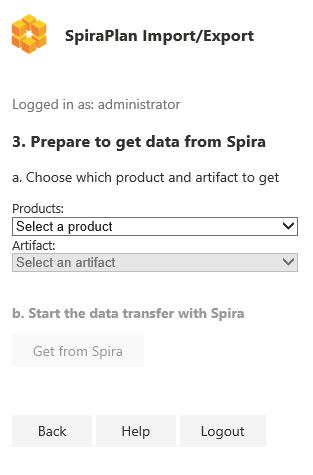
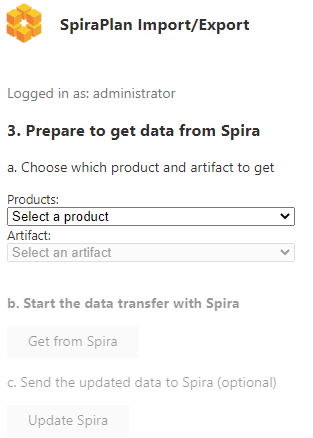
excel 365 doc updates

diff --git a/docs/Migration-and-Integration/Importing-from-Microsoft-Excel-(Office365).md b/docs/Migration-and-Integration/Importing-from-Microsoft-Excel-(Office365).md
@@ -1,6 +1,6 @@
 #  Importing from Microsoft Excel (Office 2016+, iOS, web)
 
-If you are using Microsoft Excel 2016+, or in the cloud (via a web browser) or on iPad OS, you can use the dedicated Microsoft Excel 2016+ add-in. With this add-in you can import or export data to and from any product in your SpiraTest, SpiraTeam, or SpiraPlan application. The add-in works for requirements, releases, incidents, tasks, and test cases with their test steps.
+If you are using Microsoft Excel 2016+, or in the cloud (via a web browser) or on iPad OS, you can use the dedicated Microsoft Excel 2016+ add-in. With this add-in you can import or export data to and from any product in your SpiraTest, SpiraTeam, or SpiraPlan application. The add-in works for requirements, releases, incidents, tasks, test cases with their test steps, risks and test sets.
 
 In legacy versions of this add-in you need to download a static excel template to help make sure you enter data into it in the correct way. This add-in dynamically creates the sheet headers and cell validation based off of the specific selections you make. 
 
@@ -35,9 +35,25 @@ This add-in has two separate modes: exporting; and importing.
 
 Once you have successfully logged in to your Spira application, you need to decide what you want to use this add-in for. You can go back and change your mind at any time.
 
-* **Get data from Spira (exporting)**: This button will prompt you to pick a product and artifact to LOAD FROM Spira loaded into the spreadsheet (on the current active sheet). Exporting data in this way can be helpful to share with colleagues who are not using Spira. Please note that this will bring over 100% of the artifacts in that product so it may take some time.
+* **Get data from Spira (exporting)**: This button will prompt you to pick a product and artifact to LOAD FROM Spira loaded into the spreadsheet (on the current active sheet). Exporting data in this way can be helpful to share with colleagues who are not using Spira. Please note that this will bring over 100% of the artifacts in that product so it may take some time. 
+  * Optionally, after getting data, you can make changes, then update the data back in Spira, hitting the button 'Update Spira'. Please note that this option only allows you to update the received data, not create new artifacts.
+  
 * **Send data to Spira (importing)**: This will button will prompt you to pick a product and artifact to SEND TO Spira from the current active sheet. Before you can enter data to send, the add-in creates a dynamic template for that specific product and artifact to make it easier to enter data correctly.
-* **Logout**: Close your connection with Spira and take you back to the add-in's login page
+
+
+* **Logout**: Close your connection with Spira and take you back to the add-in's login page.
+* **Advanced Mode (optional)** This mode allows you to create new comments and associate artifacts. Check the box 'Advanced Mode' to activate it.
+   * To associate artifacts, find the column of the artifact type you want to associate to (e.g.: "Linked Requirement") and enter the ID(s) of the artifact(s) to associate to. You can associate multiple artifacts at a time using a comma-separated list of IDs, e.g.: 335,336,337. It's possible to associate:
+
+    * Requirements to Requirements
+    * TestCases to Requirements
+    * TestCases to Releases
+    * TestCases to TestSets
+    
+    Please note that you can only use this option to create associations, not to retrieve the existent ones from Spira.
+    
+
+   * To create a new comment, simply enter the text under the column "New Comment". When you send to / update Spira, this text will be saved as a new comment in the artifact. It's not possible to retrieve comments from Spira, just create new ones.
 
 
 ## 3. Prepare for the data transfer
@@ -51,6 +67,10 @@ If you are getting data from or sending data to Spira you first have to select t
 **Getting data from Spira**: once you have your product and artifact selected, click the button to start the export process. The add-in gets every entry of that artifact in the chosen product so it may take some time.
 
 **Sending data to Spira**: before you can enter data into the sheet click "Prepare Sheet" to create a template for that product and artifact. Once the sheet is ready click the Send button to add that data to Spira.
+
+**Updating data in Spira (advanced mode)**: once you have the data from Spira in the spreadsheet, you can update the available fields and then click on 'Update Spira' to make the changes reflect in Spira. Each row will be sent in full to Spira - if you blank out a cell, that value will be blanked out in Spira. NOTE: you cannot moving artifacts by updating (for example, you cannot move requirements in the hierarchy, or test steps within or between test cases).
+
+
 
 
 ### Fields: working with required fields
@@ -79,7 +99,7 @@ Item 1
 
 ### Fields: multi-select lists
 * Some fields in SpiraPlan let you select multiple items from a list. Spreadsheets do not allow this functionality
-* When data is sent from SpiraPlan to the spreadsheet, only the first value in the list (if multiple are selected) will be displayed
+* When data is sent from SpiraPlan to the spreadsheet, only the first list value selected in Spira (if multiple are selected) will be displayed in the spreadsheet
 * When sending data to SpiraPlan you will only be able to select one value
 
 ### Other actions you can do on this page
@@ -91,8 +111,11 @@ Item 1
 
 
 ## Entering Data for different artifacts
-* **Requirements**: SpiraPlan allows a hierarchy of requirements (where each requirement can have children, who can, in turn, have child requirements of their own). To designate the hierarchy level of requirements, use the "\>" character at the start of the name field. See above for an example of how to do this
-* ***Releases**: like Requirements, Releases in SpiraPlan are hierarchical. You designate hierarchy in the exact same way as for requirements.
+* **Requirements**: 
+    * SpiraPlan allows a hierarchy of requirements (where each requirement can have children, who can, in turn, have child requirements of their own). To designate the hierarchy level of requirements, use the "\>" character at the start of the name field. See above for an example of how to do this.
+    * Please note that when adding new Requirements, the status you see in Spira may not match the one you selected in the spreadsheet, because the status gets calculated by the system. E.g.: 'Requested' status is automatically updated to 'Planned' in Spira if the requirement is assigned to a Release. You can always get the data from Spira to see the most updated fields in the spreadsheet.
+    * Please note that Estimate Point values for Epics will get replaced by the child requirement in Spira, even if you selected a different value in Excel.
+* **Releases**: like Requirements, Releases in SpiraPlan are hierarchical. You designate hierarchy in the exact same way as for requirements.
 * **Test Cases and Test Steps**:
     * A test step must have a test case parent to be linked to and all test steps below a test case will become the steps for that test case.
     * There is no need to number the test steps -- SpiraPlan adds this information automatically
@@ -100,7 +123,8 @@ Item 1
     * The lighter orange column names are ONLY for test step creation
     * Fields with black text are required: darker orange ones are needed for a test case, lighter orange ones for a test step
     * If a row has a mix of required fields in for both test cases and test steps, the addon won't know if it is a test case or a test step, so it will flag this an error
-* **Incidents** and **Tasks**: neither of these artifacts have any special factors to take into account
+* **Incidents**: Please note that the add-in populates 'Remaining Effort' in Spira equally to the spreadsheet's entry for 'Estimated Effort'
+* **Tasks**: this artifact does not have any special factors to take into account
 
 
 ## Functionality Differences from Microsoft Excel Classic plugin
@@ -116,8 +140,4 @@ Excel Classic can (and the Excel 365 plugin cannot):
 
 - work with version of Spira older than 6.3.0.1 
 - work with versions of Excel pre Excel 2015
-- update existing data in Spira
-- create Test Sets
 - create Test Runs
-- import/export comments
-- import/export specific artifact association (eg requirements)
